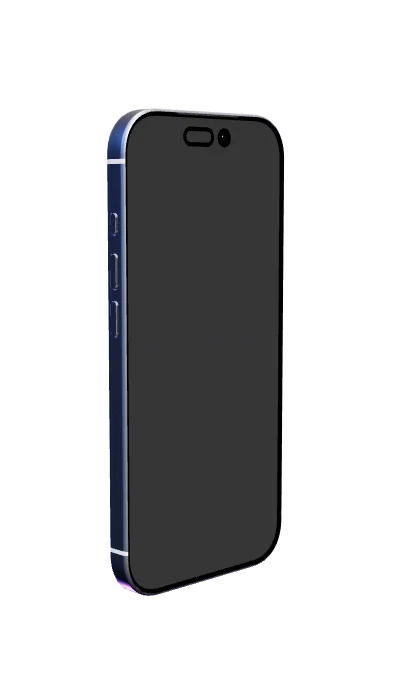
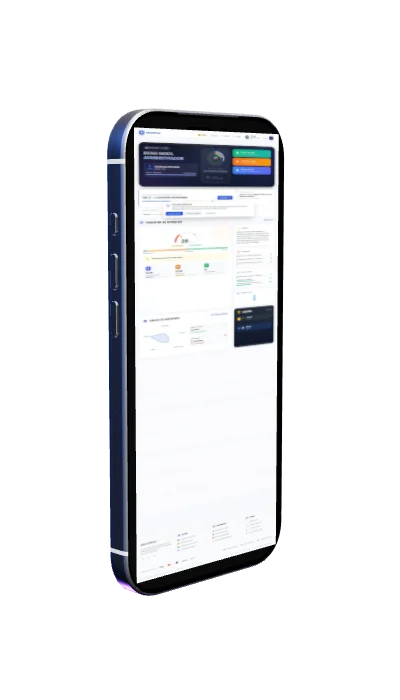
feat: iPhone frames now show Revopol campus screenshot on screen

Changed region(s): [[0.3, 0.15, 0.72, 0.84]]

diff --git a/public/render-frames-v2.html b/public/render-frames-v2.html
@@ -1,7 +1,7 @@
 <!DOCTYPE html>
 <html>
 <head>
-  <title>Render iPhone Frames v2 — with campus screenshot</title>
+  <title>Render iPhone Frames v2 — campus overlay</title>
   <style>body{background:#000;color:#fff;font-family:monospace;padding:20px}#status{font-size:18px;margin-bottom:10px}</style>
   <script type="importmap">
   {"imports":{"three":"https://cdn.jsdelivr.net/npm/three@0.170.0/build/three.module.js","three/addons/":"https://cdn.jsdelivr.net/npm/three@0.170.0/examples/jsm/"}}
@@ -30,37 +30,33 @@
     const r=new THREE.DirectionalLight(0x8855ff,0.8); r.position.set(-1,-2,-3); scene.add(r);
     const t=new THREE.DirectionalLight(0xffffff,1); t.position.set(0,5,0); scene.add(t);
 
-    // Load campus screenshot as texture
+    // Load campus screenshot
     const texLoader = new THREE.TextureLoader();
-    const campusTex = await new Promise(r => texLoader.load('/campus-screenshot.jpg', r));
+    const campusTex = await new Promise(resolve => texLoader.load('/campus-screenshot.jpg', resolve));
     campusTex.colorSpace = THREE.SRGBColorSpace;
 
     new GLTFLoader().load('/iphone-17-pro.glb', async (gltf) => {
       const model = gltf.scene;
       const box = new THREE.Box3().setFromObject(model);
-      model.position.sub(box.getCenter(new THREE.Vector3()));
+      const center = box.getCenter(new THREE.Vector3());
+      model.position.sub(center);
       model.rotation.x = 0.12;
 
-      // Find the Display material and replace with campus screenshot
-      model.traverse((child) => {
-        if (child.isMesh && child.material) {
-          const mat = child.material;
-          if (mat.name === 'Display') {
-            mat.map = campusTex;
-            mat.emissive = new THREE.Color(0x333333);
-            mat.emissiveIntensity = 0.3;
-            mat.emissiveMap = campusTex;
-            mat.color.set(0xffffff);
-            mat.roughness = 0.1;
-            mat.metalness = 0;
-            mat.needsUpdate = true;
-          }
-        }
-      });
-
       scene.add(model);
-      document.getElementById('status').textContent = 'Rendering...';
 
+      // Create screen overlay plane positioned right on the display
+      // Screen dimensions from model: roughly 0.0675 x 0.1456 centered at z=0.00345
+      const screenGeo = new THREE.PlaneGeometry(0.064, 0.138);
+      const screenMat = new THREE.MeshBasicMaterial({
+        map: campusTex,
+        toneMapped: false,
+      });
+      const screenPlane = new THREE.Mesh(screenGeo, screenMat);
+      // Position on front face of phone
+      screenPlane.position.set(0, 0, 0.00455);
+      model.add(screenPlane);
+
+      document.getElementById('status').textContent = 'Rendering...';
       window.__frameDataURLs = [];
       for (let i = 0; i < FRAMES; i++) {
         model.rotation.y = (i / FRAMES) * Math.PI * 2;
@@ -68,7 +64,7 @@
         window.__frameDataURLs.push(renderer.domElement.toDataURL('image/webp', 0.85));
         document.getElementById('status').textContent = `Frame ${i+1}/${FRAMES}`;
       }
-      document.getElementById('status').textContent = '✅ Done! Frames in window.__frameDataURLs';
+      document.getElementById('status').textContent = '✅ Done!';
     });
   </script>
 </body>
